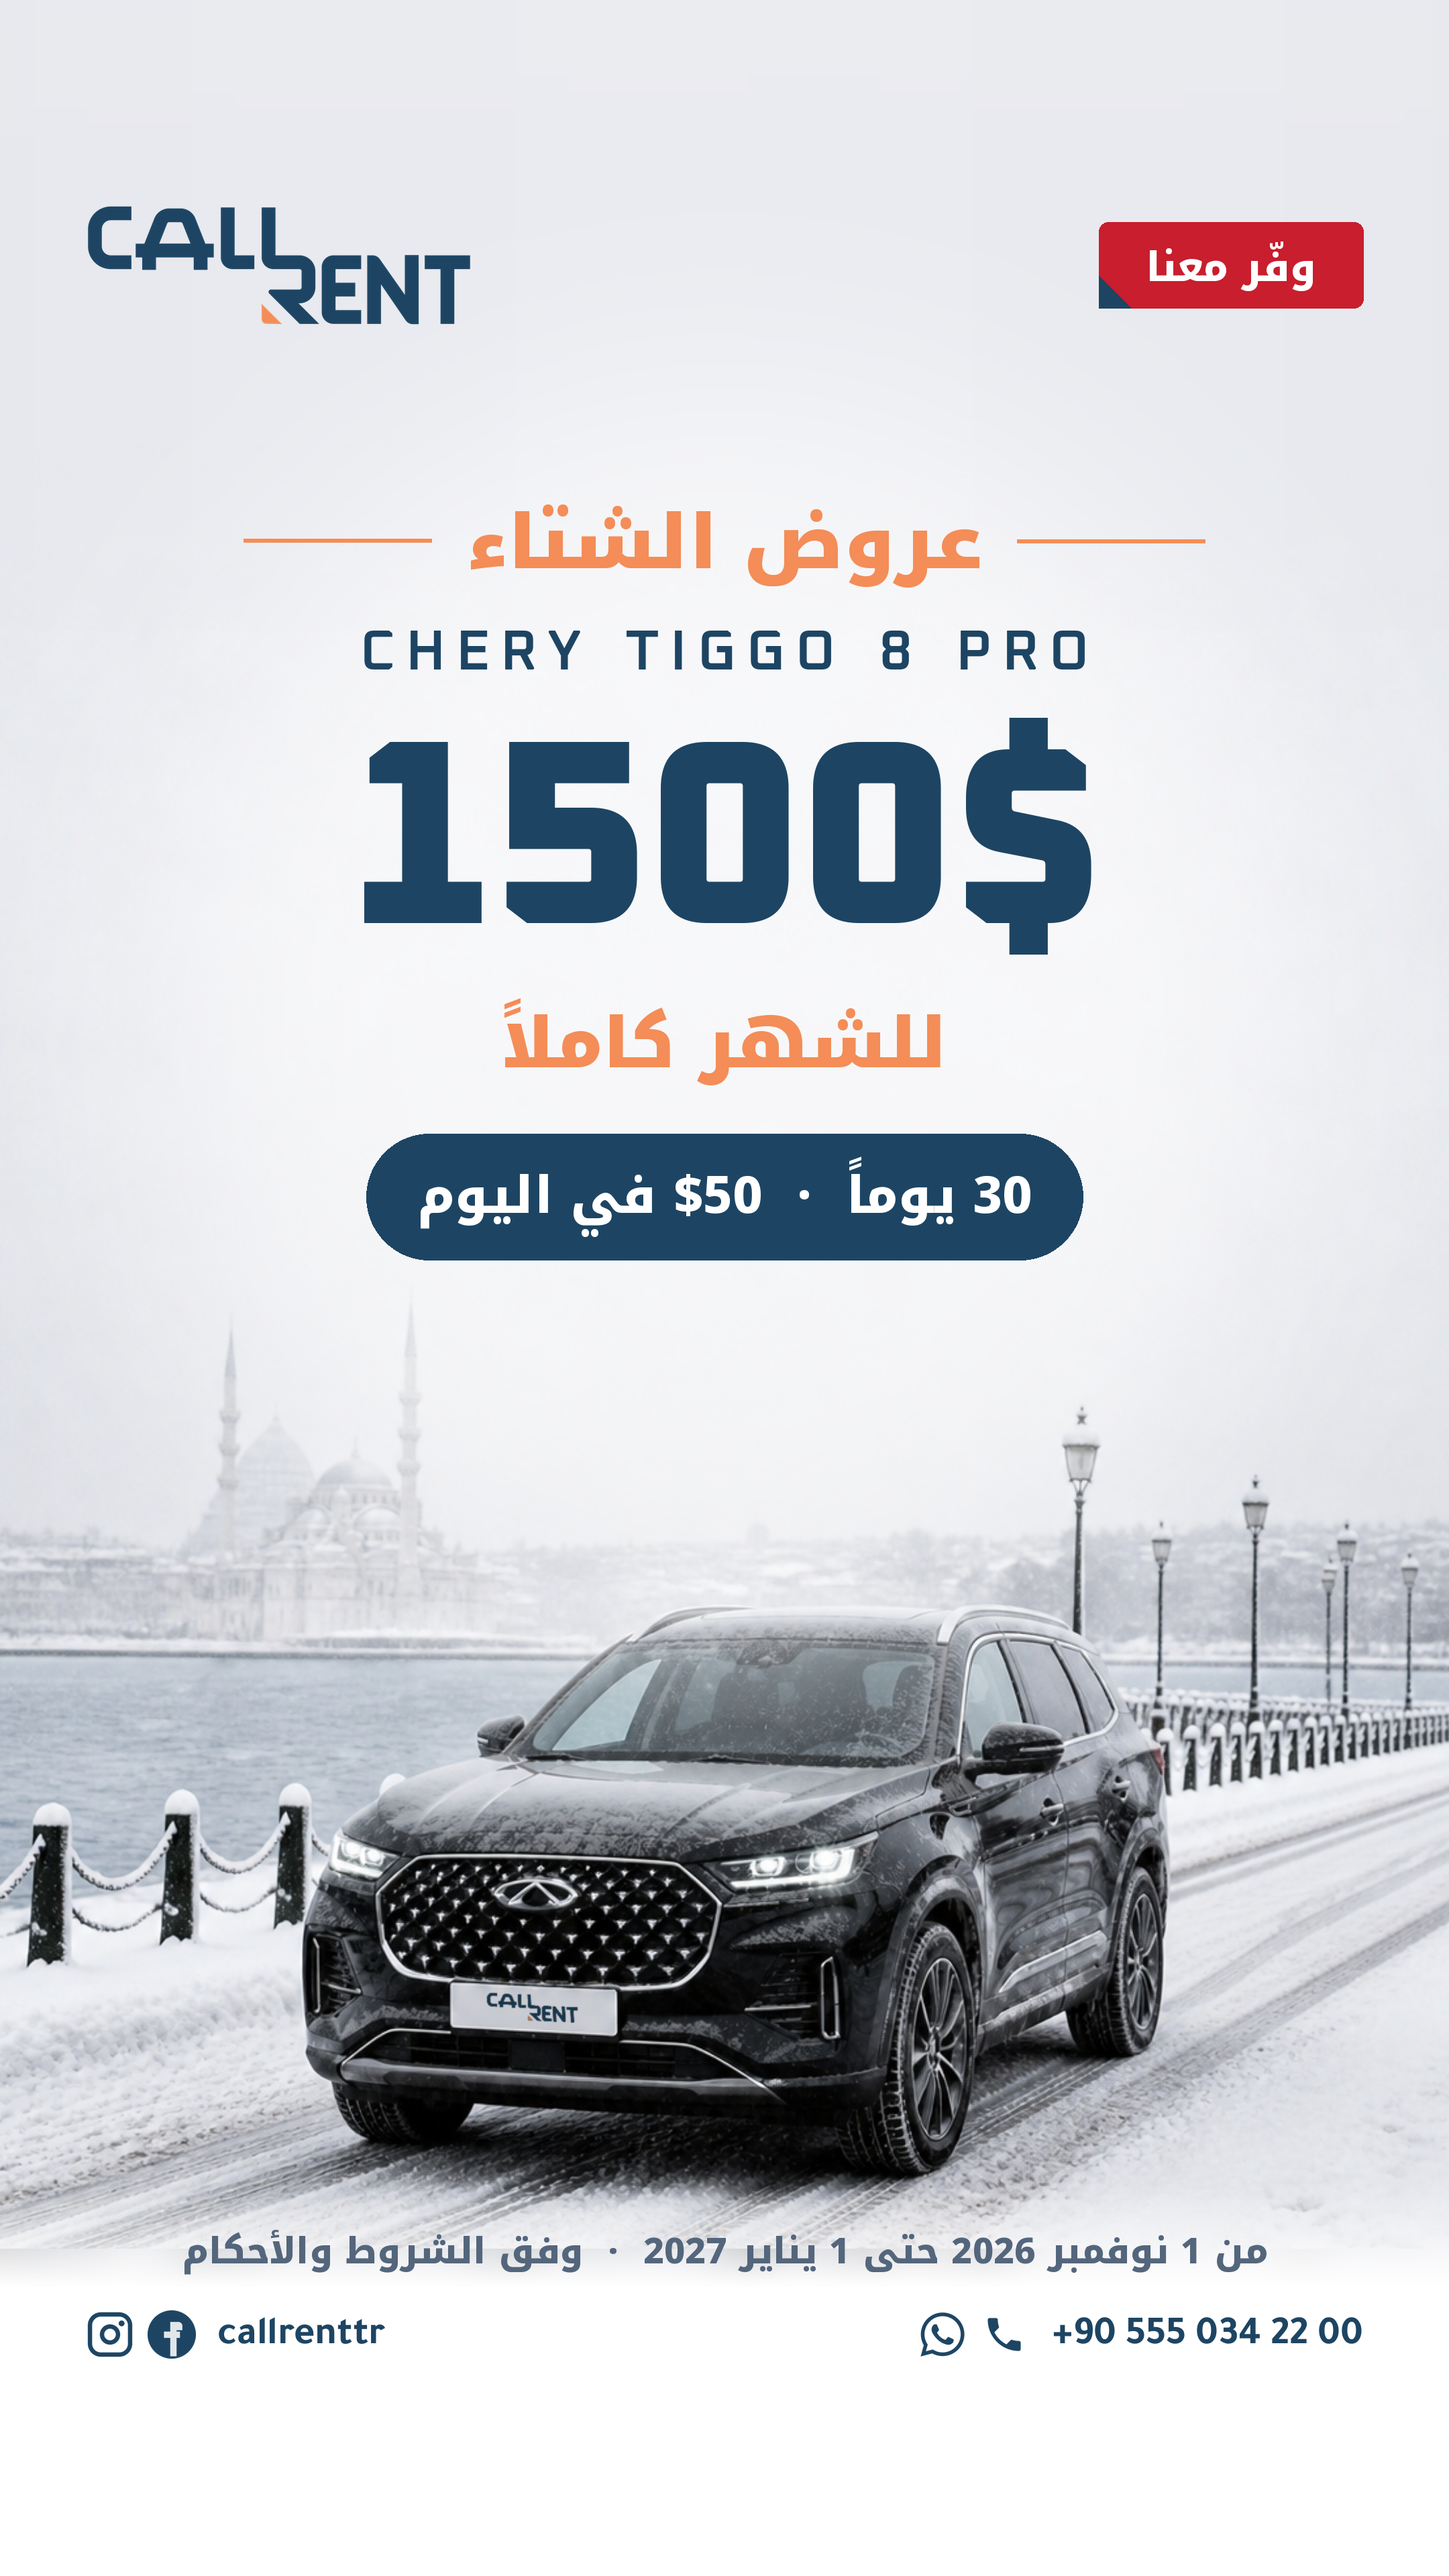
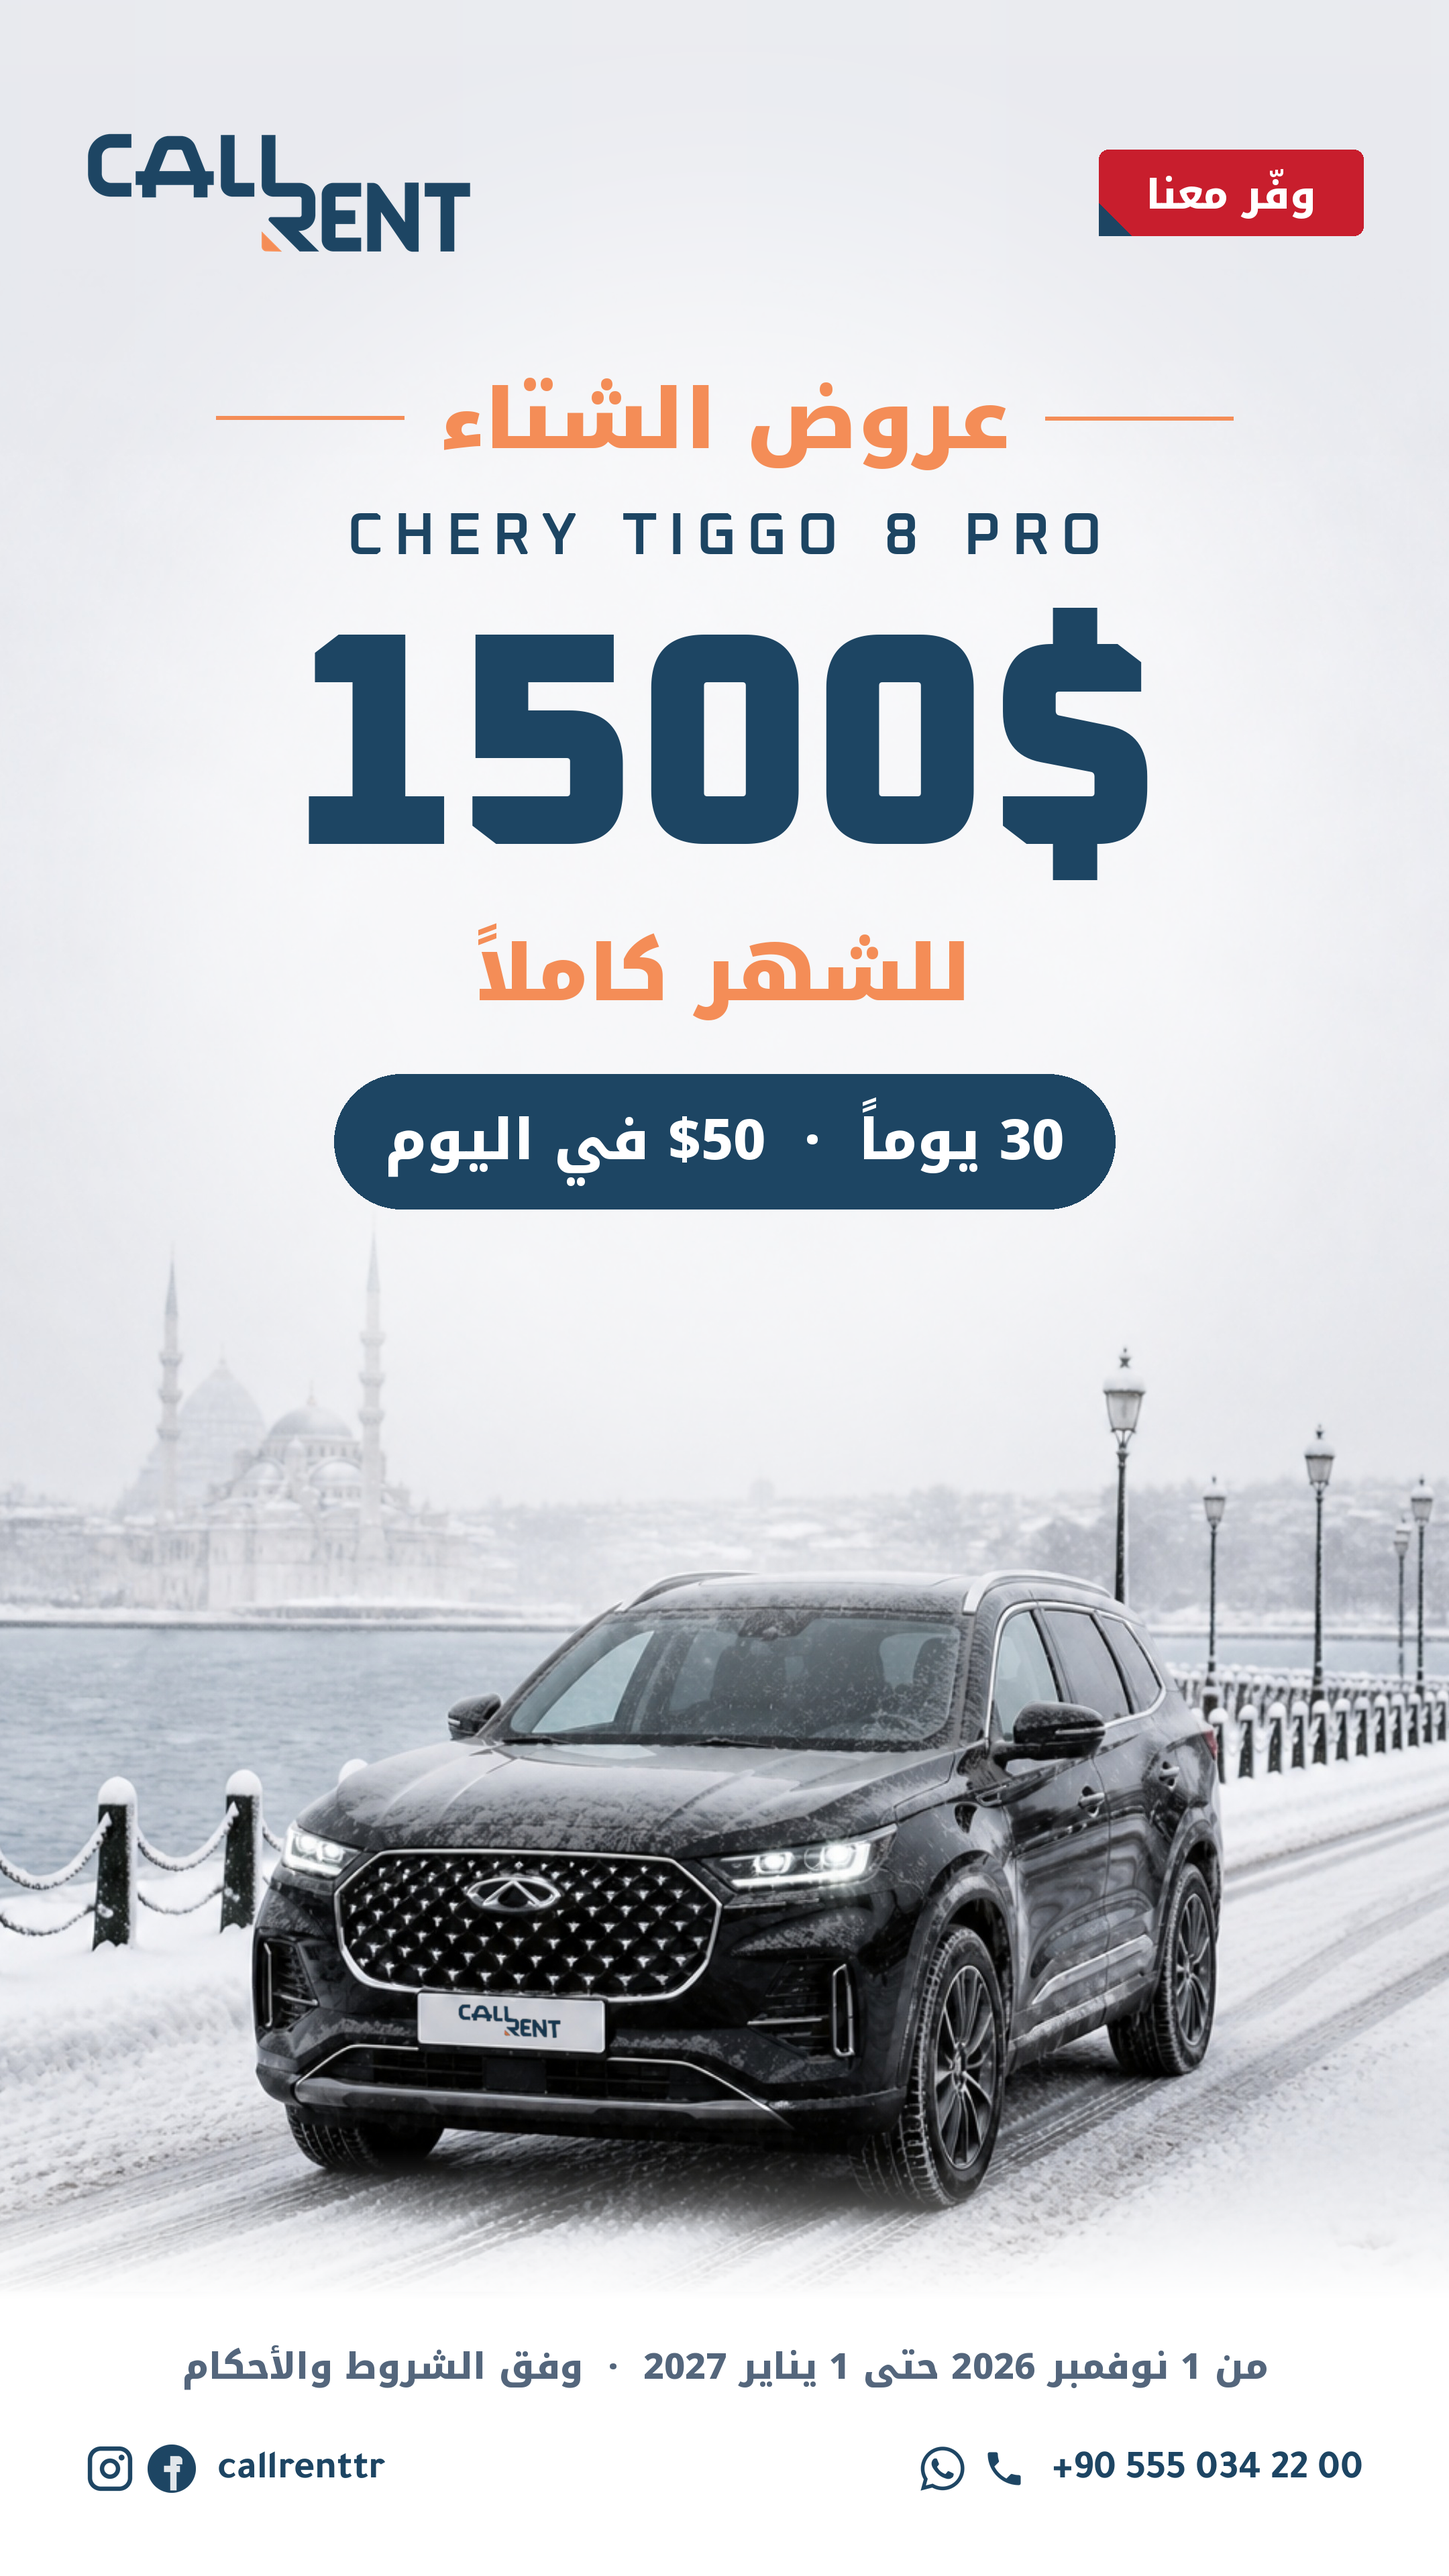
Tiggo winter story: fill the screen (zoomed scene, header up, contacts down, larger type)
Claude-Session: https://claude.ai/code/session_01JWxxZZBXcuDznNNTjM86b7

diff --git a/marketing/posts/tiggo_winter_story.py b/marketing/posts/tiggo_winter_story.py
@@ -14,11 +14,13 @@ from PIL import Image, ImageDraw, ImageFilter
 import numpy as np
 
 tw.H = H = 1920*K
-BG, PLATE, BG_TOP = 'tiggo-winter-a-istanbul-snowy-light.jpg', (794, 2338), 330     # bg top edge, units
+BG, PLATE, BG_TOP, SC = 'tiggo-winter-a-istanbul-snowy-light.jpg', (794, 2338), 200, 1.12   # bg top edge (units), zoom
 
 
 def background():
     im = plate_logo(Image.open(os.path.join(HERE, BG)).convert('RGB').resize((W, 1350*K), Image.LANCZOS), PLATE)
+    im = im.resize((round(W*SC), round(1350*K*SC)), Image.LANCZOS)          # zoom in, crop the sides evenly
+    x0 = (im.width - W)//2; im = im.crop((x0, 0, x0 + W, im.height))
     a = np.asarray(im).astype(np.float32)
     top = S(BG_TOP)
     # sky above: the photo's own top rows, column by column, softly lightened upward
@@ -53,29 +55,29 @@ def header(cv, y0=150):
 
 def story(out):
     cv = background()
-    veil(cv, lambda y: (y - 1630)/70*0.94)                         # white floor for dates + footer
-    g = Image.new('L', (W, H), 0); ImageDraw.Draw(g).ellipse((S(110), S(290), S(970), S(1220)), fill=int(255*0.6))
+    veil(cv, lambda y: ((y - 1600)/112)**1.3*0.98)                         # white floor for dates + footer
+    g = Image.new('L', (W, H), 0); ImageDraw.Draw(g).ellipse((S(90), S(170), S(990), S(1130)), fill=int(255*0.6))
     lay = Image.new('RGBA', (W, H), (255, 255, 255, 0)); lay.putalpha(g.filter(ImageFilter.GaussianBlur(S(80)))); cv.alpha_composite(lay)
-    hb = header(cv); d = ImageDraw.Draw(cv); cx = W/2; GAP = S(32)
-    f = F(AR_BLACK, S(56)); up, dn, tw_ = box('عروض الشتاء', f); b = S(hb + 130) + up
+    hb = header(cv, 96); d = ImageDraw.Draw(cv); cx = W/2; GAP = S(32)
+    f = F(AR_BLACK, S(62)); up, dn, tw_ = box('عروض الشتاء', f); b = S(hb + 90) + up
     ar(d, (cx, b), 'عروض الشتاء', f, O)
     for sx in (-1, 1):
         x0 = cx + sx*(tw_/2 + S(26)); d.line([(x0, b - up*0.42), (x0 + sx*S(140), b - up*0.42)], fill=O+(255,), width=S(3))
     y = b + dn
-    f = F(OX6, S(42)); up, dn, _ = box(MODEL, f, False); b = y + GAP + up
+    f = F(OX6, S(44)); up, dn, _ = box(MODEL, f, False); b = y + GAP + up
     spaced(d, cx, b, MODEL, f, N, S(8)); y = b + dn
-    f = F(OX, S(196)); up, dn, _ = box('1500$', f, False); b = y + S(36) + up
+    f = F(OX, S(226)); up, dn, _ = box('1500$', f, False); b = y + S(40) + up
     lt(d, (cx, b), '1500$', f, N); y = b + dn
-    f = F(AR_BLACK, S(52)); up, dn, _ = box('للشهر كاملاً', f); b = y + GAP + up
+    f = F(AR_BLACK, S(58)); up, dn, _ = box('للشهر كاملاً', f); b = y + GAP + up
     ar(d, (cx, b), 'للشهر كاملاً', f, O); y = b + dn
-    t = '30 يوماً  ·  50$ في اليوم'; f = F(AR_BOLD, S(38)); up, dn, tw_ = box(t, f)
-    c0 = y + S(36); ch = up + dn + S(34)
+    t = '30 يوماً  ·  50$ في اليوم'; f = F(AR_BOLD, S(42)); up, dn, tw_ = box(t, f)
+    c0 = y + S(40); ch = up + dn + S(34)
     d.rounded_rectangle((cx - tw_/2 - S(38), c0, cx + tw_/2 + S(38), c0 + ch), radius=ch/2, fill=N+(255,))
     ar(d, (cx, c0 + S(17) + up), t, f, Wh)
-    print('header ends', round(hb), '| text block', round(hb + 130), '-', round((c0 + ch)/K), '| car roof ~', BG_TOP + 385*1350//600)
-    y2 = dates_line(d, 540, 1662)
-    print('dates 1662 -', round(y2), '| footer at 1740 | IG bottom zone from ~1720')
-    footer(cv, 1740)
+    print('header ends', round(hb), '| text block', round(hb + 90), '-', round((c0 + ch)/K), '| car roof ~', round(BG_TOP + 385*1350/600*SC), '| car bottom ~', round(BG_TOP + 575*1350/600*SC))
+    y2 = dates_line(d, 540, 1748)
+    print('dates 1748 -', round(y2), '| footer at 1840')
+    footer(cv, 1840)
     cv.convert('RGB').save(out, optimize=True); print(out, cv.size)
 
 
